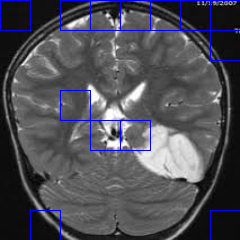
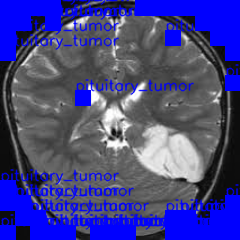
ok

diff --git a/computer_vision_model_detection.py b/computer_vision_model_detection.py
@@ -15,6 +15,7 @@ class computer_vision_localization_detection(object):
         self.split_size = 225
         self.color = [(255,0,0),(255,120,0),(255,0,120),(255,120.120)]
         self.font = cv2.FONT_HERSHEY_SIMPLEX
+        self.alpha = 0.5
         self.fontScale = 0.5
         self.thickness = 1
 
@@ -33,7 +34,7 @@ class computer_vision_localization_detection(object):
 
         self.prepare_image_data()
         self.plot_prediction_with_model()
-        # self.segmentation()
+        self.segmentation()
         self.localization()
 
     
@@ -90,25 +91,32 @@ class computer_vision_localization_detection(object):
             image_resized = cv2.imread(os.path.join(self.image_path, image))
             image_resized = cv2.resize(image_resized,(self.image_size, self.image_size), interpolation = cv2.INTER_AREA)
         
+        image_resized_original = image_resized.copy()
         self.prepare_prediction()
         
         for i in range(len(self.image_file_image)):
-
             if self.number_classes == 2:
                 for r in range(0,image_resized.shape[0],int(math.sqrt(self.split_size))):
                     for c in range(0,image_resized.shape[1],int(math.sqrt(self.split_size))):
                         start_point = (int(r), int(c))
                         end_point = (int(r+(self.image_size/math.sqrt(len(self.image_file)))), int(c+(self.image_size/math.sqrt(len(self.image_file)))))
+                        
                         if self.predicted_classes_array[int(r/(self.image_size/(math.sqrt(len(self.image_file)))))][int(c/(self.image_size/(math.sqrt(len(self.image_file)))))] == [np.argmax(self.predicted_classes[i])][0]:
-                            cv2.rectangle(image_resized, start_point, end_point, self.color[np.argmax(self.predicted_classes[i])][0], self.thickness)
-        
+                            cv2.rectangle(image_resized, start_point, end_point, self.color[np.argmax(self.predicted_classes[i])][0], self.thickness_fill)
+                            cv2.addWeighted(image_resized, self.alpha, image_resized_original, self.alpha, 0, image_resized_original)
+                            cv2.putText(image_resized, str((self.model_categpory[np.argmax(self.predicted_classes[i])])), start_point, self.font, self.fontScale, self.color[np.argmax(self.predicted_classes[i])][0], self.thickness, cv2.LINE_AA)
+
+
             if self.number_classes == 4:
                 for r in range(0,image_resized.shape[0],int(math.sqrt(self.split_size))):
                     for c in range(0,image_resized.shape[1],int(math.sqrt(self.split_size))):
                         start_point = (int(r), int(c))
                         end_point = (int(r+(self.image_size/math.sqrt(len(self.image_file)))), int(c+(self.image_size/math.sqrt(len(self.image_file)))))
+                        
                         if self.predicted_classes_array[int(r/(self.image_size/(math.sqrt(len(self.image_file)))))][int(c/(self.image_size/(math.sqrt(len(self.image_file)))))] == [np.argmax(self.predicted_classes[i])][0]:
-                            cv2.rectangle(image_resized, start_point, end_point, self.color[np.argmax(self.predicted_classes[i])][0], self.thickness)
+                            cv2.rectangle(image_resized, start_point, end_point, self.color[np.argmax(self.predicted_classes[i])][0], self.thickness_fill)
+                            cv2.addWeighted(image_resized, self.alpha, image_resized_original, self.alpha, 0, image_resized_original)
+                            cv2.putText(image_resized, str((self.model_categpory[np.argmax(self.predicted_classes[i])])), start_point, self.font, self.fontScale, self.color[np.argmax(self.predicted_classes[i])][0], self.thickness, cv2.LINE_AA)
 
 
         cv2.imwrite(self.graph_path_detection + "model_segmenation_with_model_trained_prediction_" + str(self.save_model) + '.png', image_resized)
@@ -139,8 +147,6 @@ class computer_vision_localization_detection(object):
                             last_predicting_position = (int(r+(self.image_size/math.sqrt(len(self.image_file)))), int(c+(self.image_size/math.sqrt(len(self.image_file)))))
                         
                         if r == int(self.image_size-(self.image_size/(math.sqrt(len(self.image_file))))) and c == int(self.image_size-(self.image_size/(math.sqrt(len(self.image_file))))):
-                            print(first_predicting_position)
-                            print(last_predicting_position)
                             cv2.rectangle(image_resized, first_predicting_position, last_predicting_position, self.color[np.argmax(self.predicted_classes[i])][0], self.thickness)
                             cv2.putText(image_resized, str((self.model_categpory[np.argmax(self.predicted_classes[i])])), first_predicting_position, self.font, self.fontScale, self.color[np.argmax(self.predicted_classes[i])][0], self.thickness, cv2.LINE_AA)
 
@@ -157,8 +163,6 @@ class computer_vision_localization_detection(object):
                             last_predicting_position = (int(r+(self.image_size/math.sqrt(len(self.image_file)))), int(c+(self.image_size/math.sqrt(len(self.image_file)))))
                         
                         if r == int(self.image_size-(self.image_size/(math.sqrt(len(self.image_file))))) and c == int(self.image_size-(self.image_size/(math.sqrt(len(self.image_file))))):
-                            print(first_predicting_position)
-                            print(last_predicting_position)
                             cv2.rectangle(image_resized, first_predicting_position, last_predicting_position, self.color[np.argmax(self.predicted_classes[i])][0], self.thickness)
                             cv2.putText(image_resized, str((self.model_categpory[np.argmax(self.predicted_classes[i])])), first_predicting_position, self.font, self.fontScale, self.color[np.argmax(self.predicted_classes[i])][0], self.thickness, cv2.LINE_AA)
 
